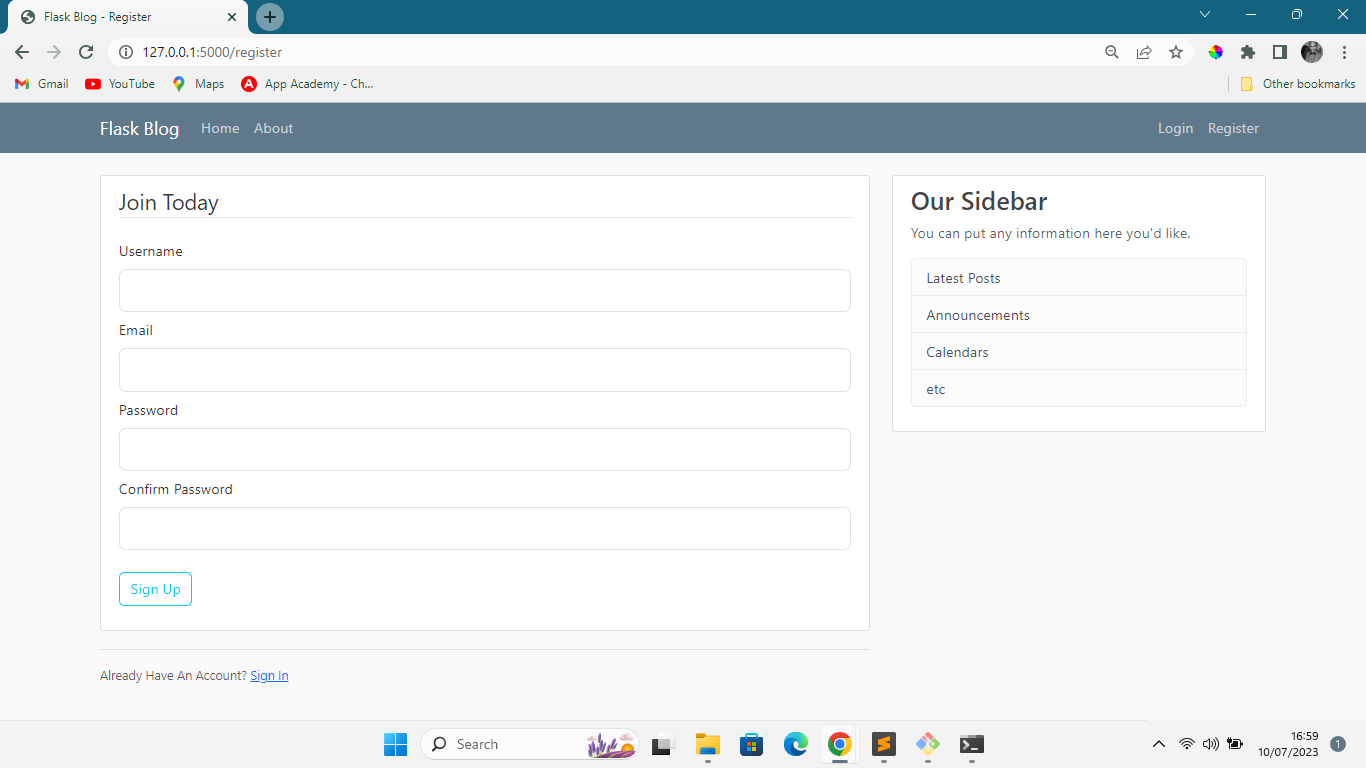
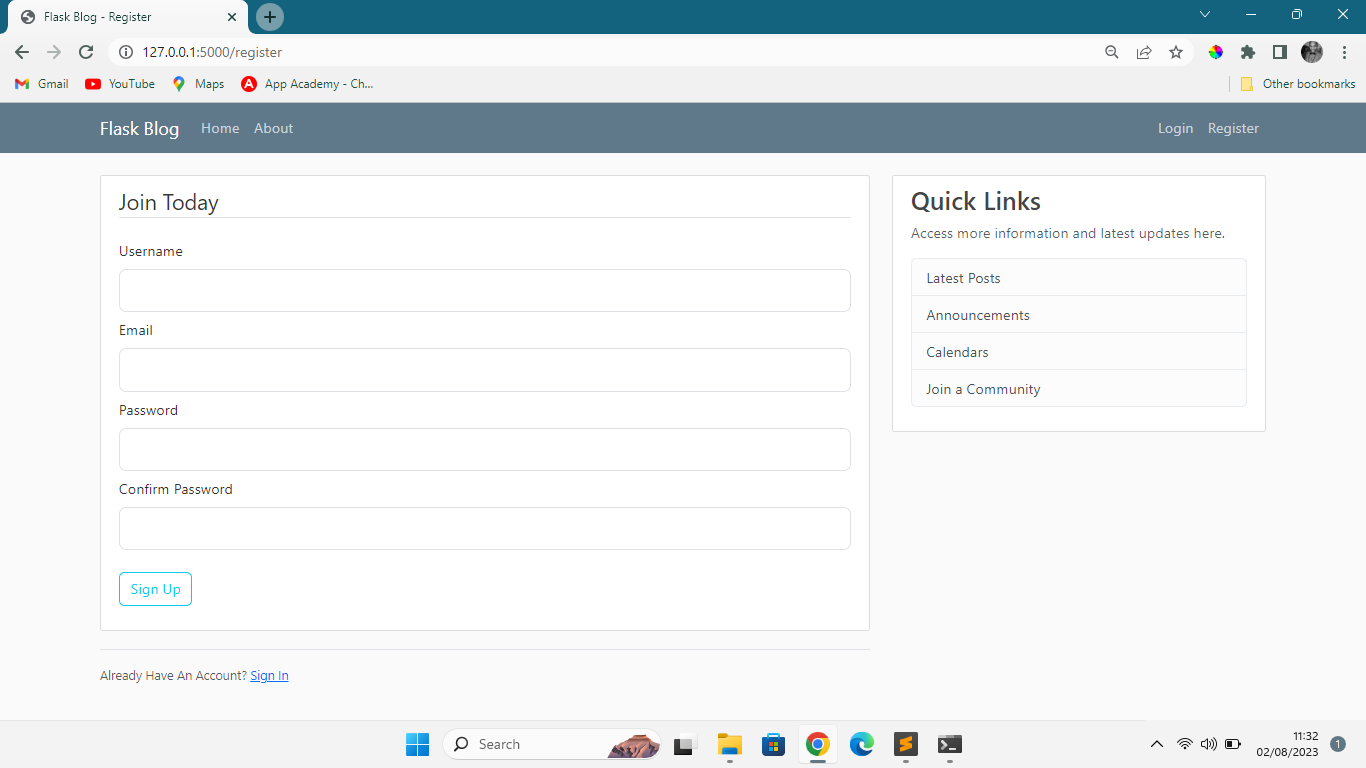
updated read me

diff --git a/flaskblog/templates/layout.html b/flaskblog/templates/layout.html
@@ -61,13 +61,13 @@
 	    </div>
 	    <div class="col-md-4">
 	      <div class="content-section">
-	        <h3>Our Sidebar</h3>
-	        <p class='text-muted'>You can put any information here you'd like.
+	        <h3>Quick Links</h3>
+	        <p class='text-muted'>Access more information and latest updates here.
 	          <ul class="list-group">
 	            <li class="list-group-item list-group-item-light">Latest Posts</li>
 	            <li class="list-group-item list-group-item-light">Announcements</li>
 	            <li class="list-group-item list-group-item-light">Calendars</li>
-	            <li class="list-group-item list-group-item-light">etc</li>
+	            <li class="list-group-item list-group-item-light">Join a Community</li>
 	          </ul>
 	        </p>
 	      </div>
